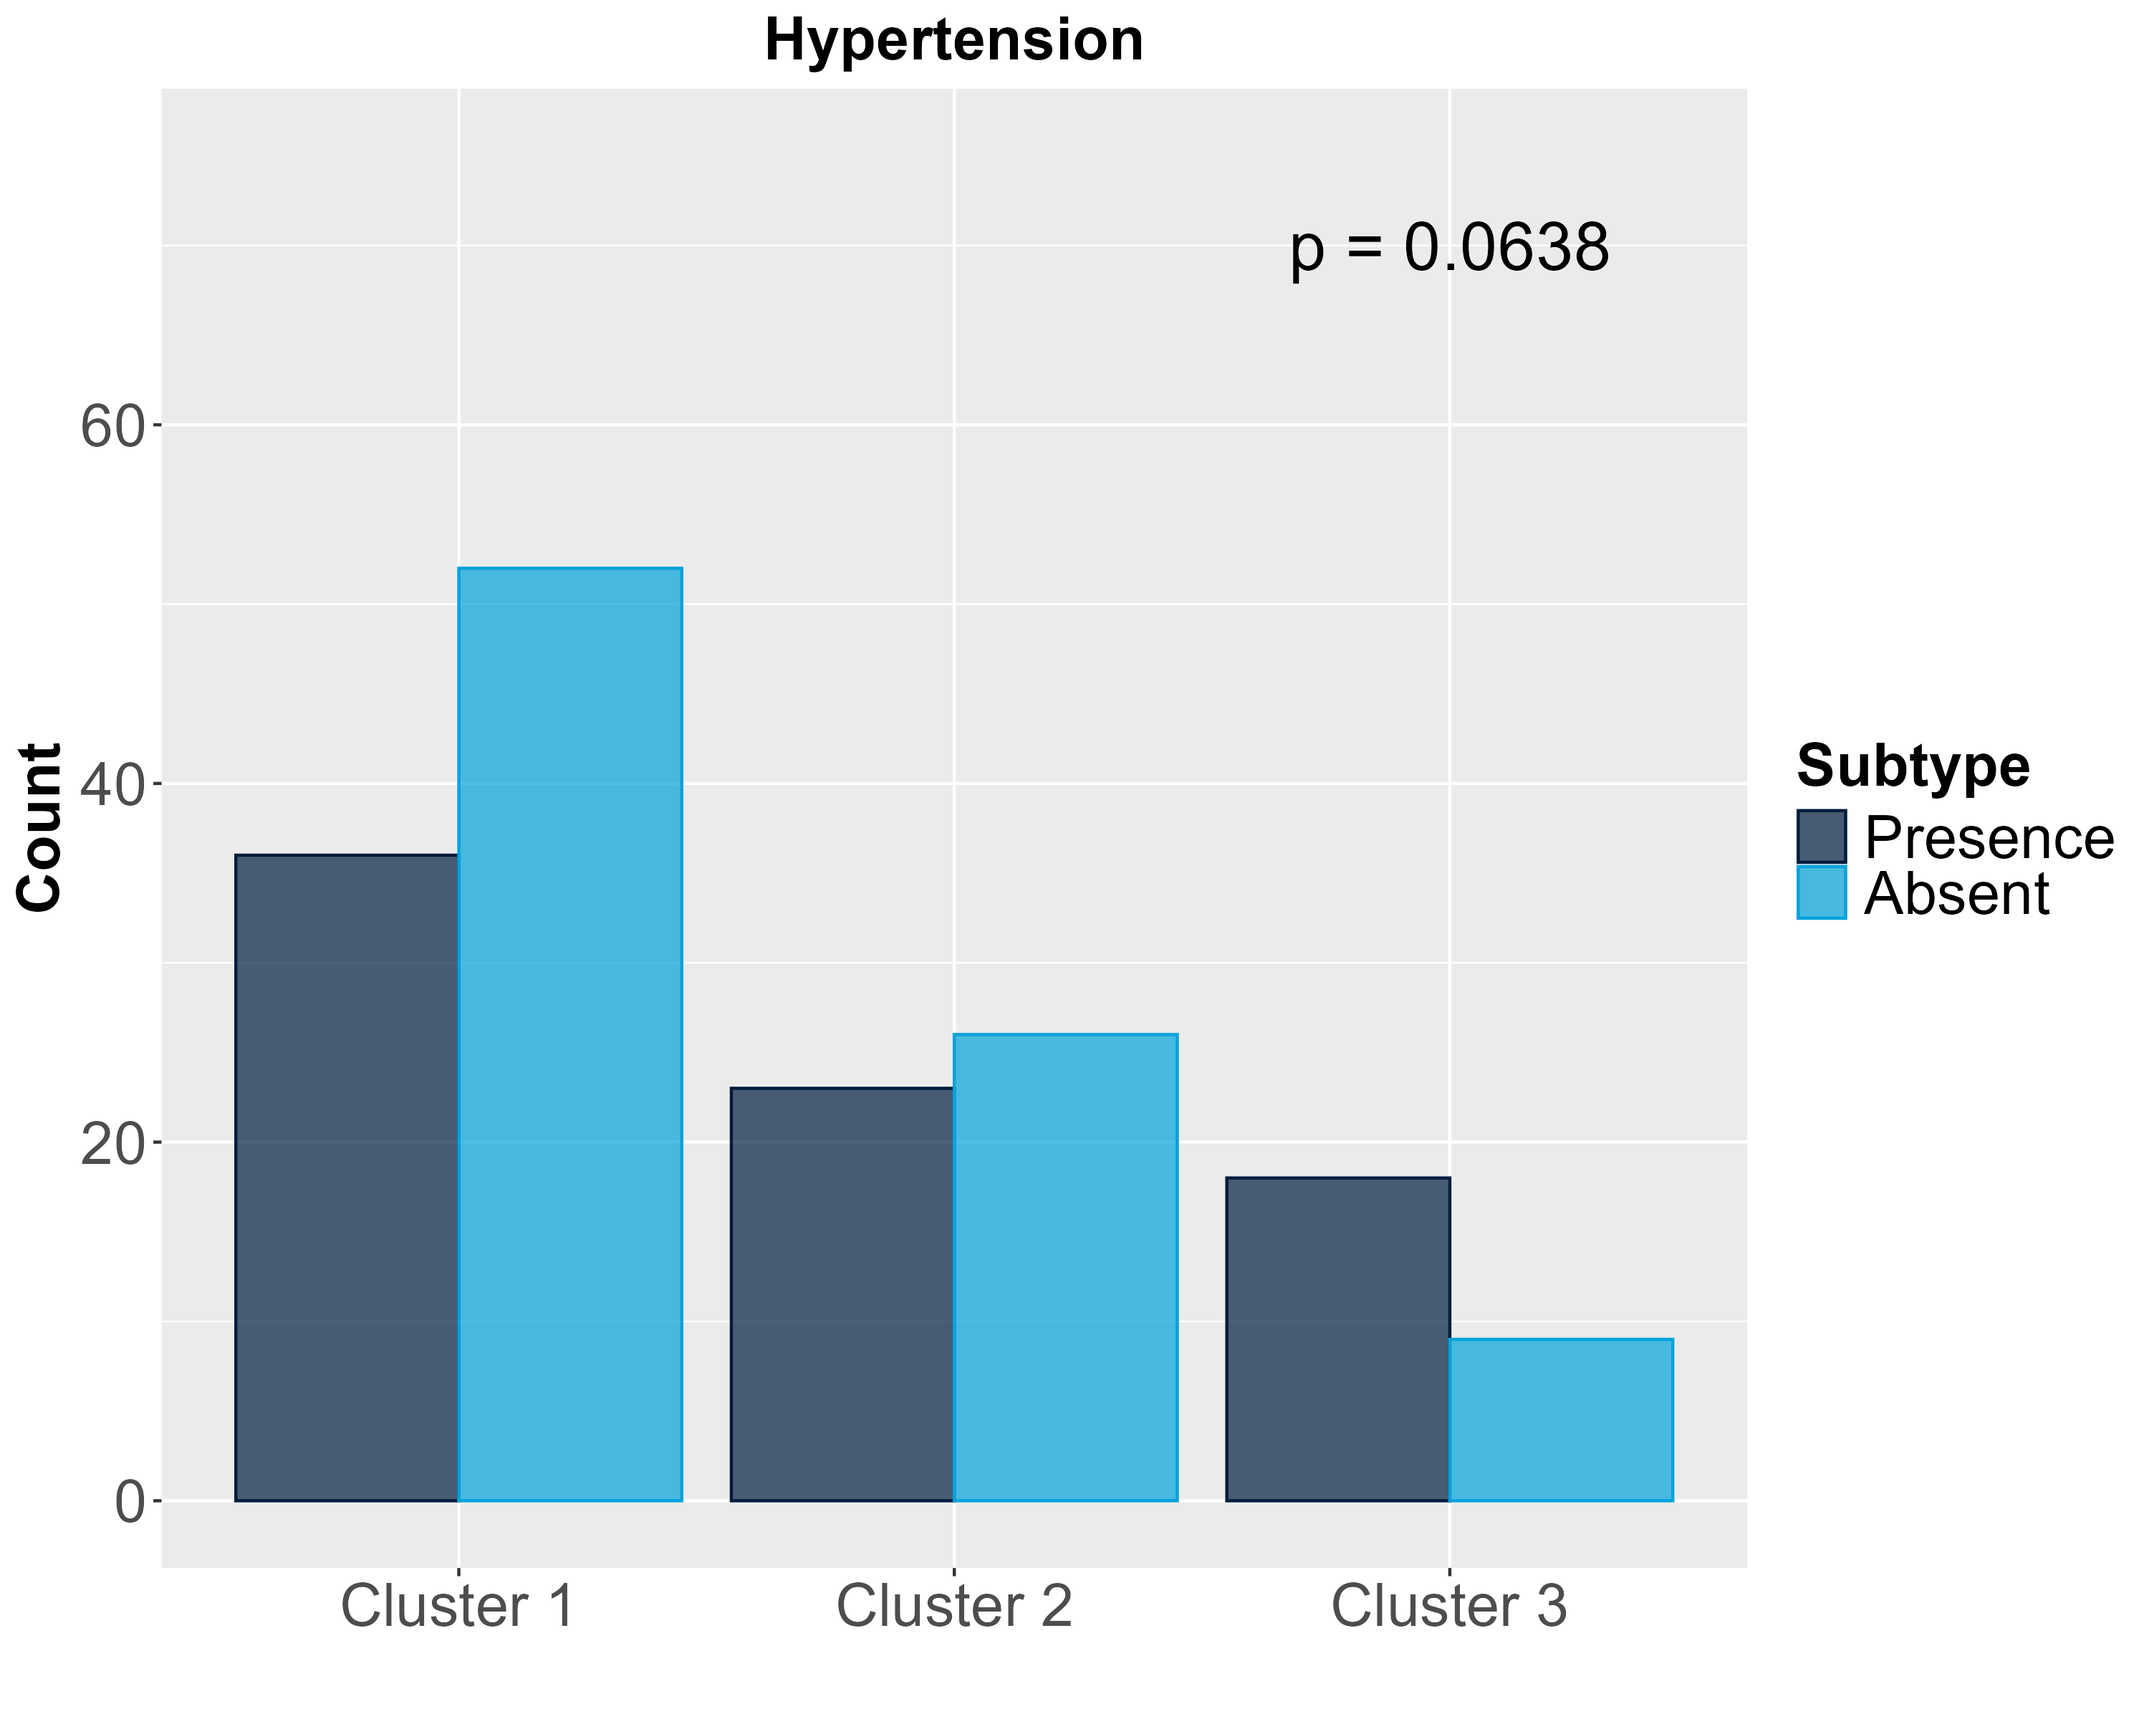
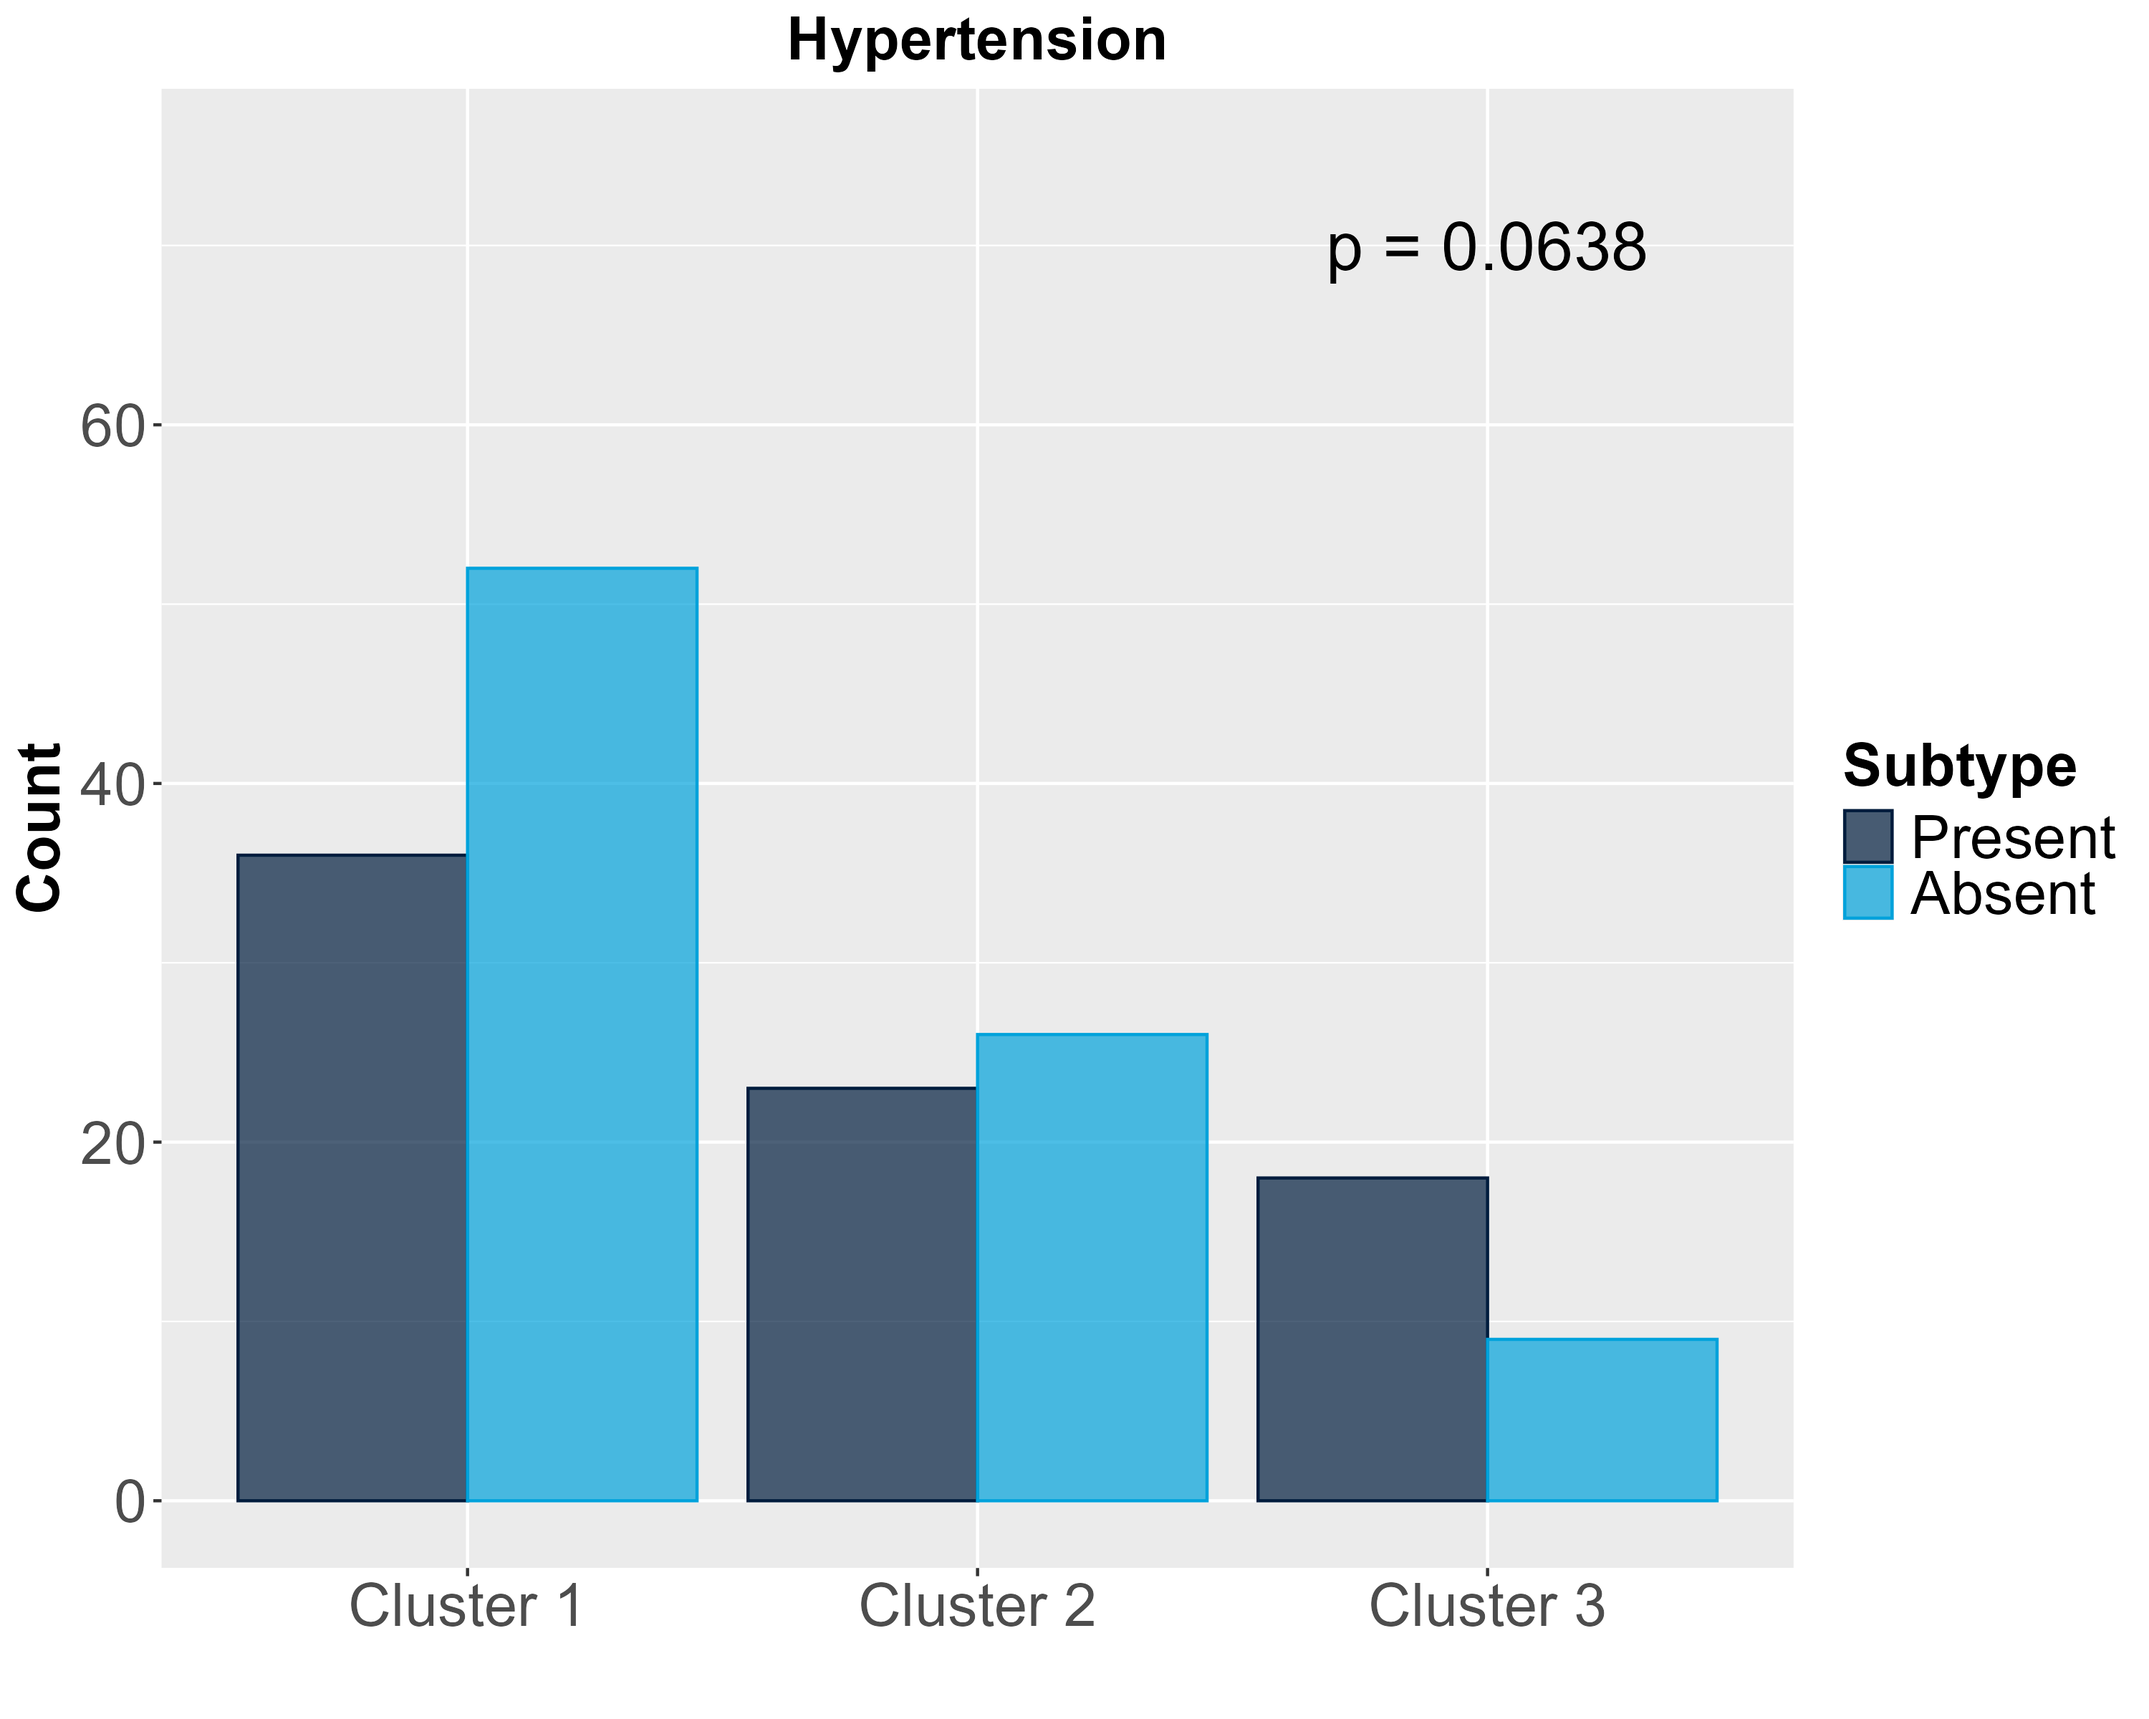
Corrected Some Design Issues

diff --git a/tables/demographicTable.html b/tables/demographicTable.html
@@ -256,7 +256,7 @@
 <td class='firstrow'></td>
 </tr>
 <tr>
-<td class='rowlabel'>Presence</td>
+<td class='rowlabel'>Present</td>
 <td>106 (29.0%)</td>
 <td>17 (10.2%)</td>
 <td>67 (40.4%)</td>
@@ -288,7 +288,7 @@
 <td class='firstrow'></td>
 </tr>
 <tr>
-<td class='rowlabel'>Presence</td>
+<td class='rowlabel'>Present</td>
 <td>89 (24.3%)</td>
 <td>1 (0.6%)</td>
 <td>71 (42.8%)</td>
@@ -320,7 +320,7 @@
 <td class='firstrow'></td>
 </tr>
 <tr>
-<td class='rowlabel'>Presence</td>
+<td class='rowlabel'>Present</td>
 <td>80 (21.9%)</td>
 <td>39 (23.5%)</td>
 <td>40 (24.1%)</td>
@@ -352,7 +352,7 @@
 <td class='firstrow'></td>
 </tr>
 <tr>
-<td class='rowlabel'>Presence</td>
+<td class='rowlabel'>Present</td>
 <td>186 (50.8%)</td>
 <td>102 (61.4%)</td>
 <td>78 (47.0%)</td>
